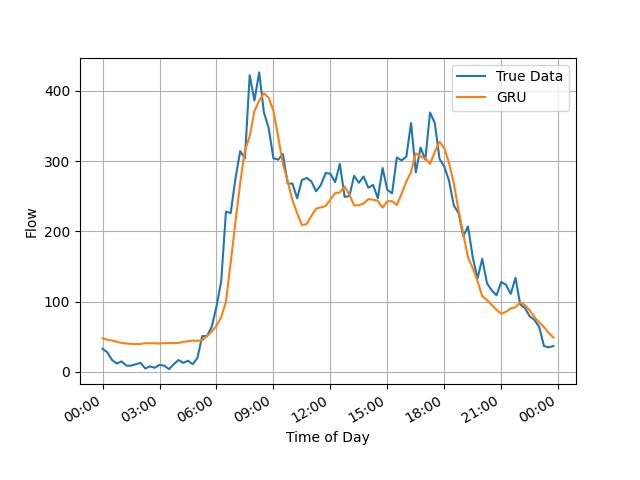
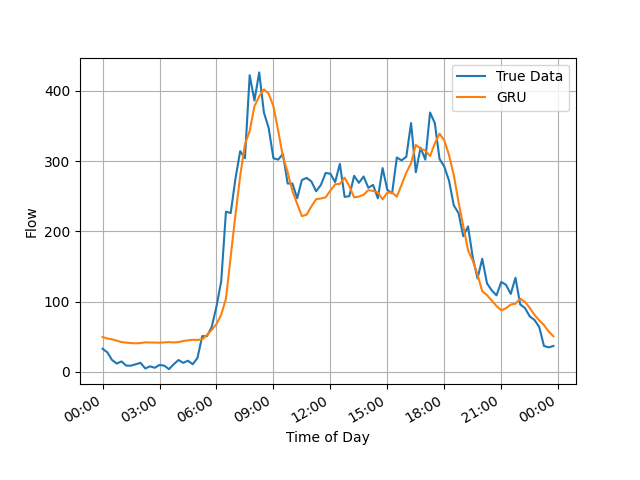
Example predictions

diff --git a/main.py b/main.py
@@ -58,7 +58,7 @@ data_loader = DataLoader(
 )
 
 training_config = TrainingConfig(
-    epochs=25,
+    epochs=10,
     batch_size=256,
     lags=12,
     train_test_proportion=0.7,
@@ -77,7 +77,6 @@ y_true = main_input_data.y_test_original
 
 # shape
 
-# not sure how shape is 881, from 2677 rows and 0.7 train test split
 y_preds = basic_model.keras.predict(main_input_data.x_test)
 
 # reshape
@@ -100,3 +99,62 @@ DataVisualiser.plot_results(
     names,
     "./results/visualisations/plot.png",
 )
+
+# imagine that these are the last 12 recorded flows for the day at a given location
+# we want to know what the flow will be in the next period
+# so we use the model to predict the flow for the next period
+
+# imagine in the real world
+# this data would be coming from a live feed!
+
+# for our project, we can simply use the last 24 hour period in the test data
+
+dummy_last_12 = [
+    10,
+    12,
+    15,
+    20,
+    25,
+    30,
+    35,
+    40,
+    45,
+    50,
+    55,
+    60,
+]
+
+# normalise
+
+normalised = []
+
+for i in range(lags):
+    normalised.append(
+        main_input_data.scaler.transform(
+            [[dummy_last_12[i]]],
+        )[
+            0
+        ][0],
+    )
+
+dummy_last_12 = [normalised]
+
+# reshape
+
+dummy_last_12 = pd.DataFrame(dummy_last_12)
+
+dummy_last_12 = dummy_last_12.values.reshape(1, lags, 1)
+
+# predict
+
+next_res = basic_model.keras.predict(dummy_last_12)
+
+# inverse transform
+
+next_res = main_input_data.scaler.inverse_transform(next_res)
+
+# reshape to just int
+
+next_res = int(next_res[0][0])
+
+print(next_res)
